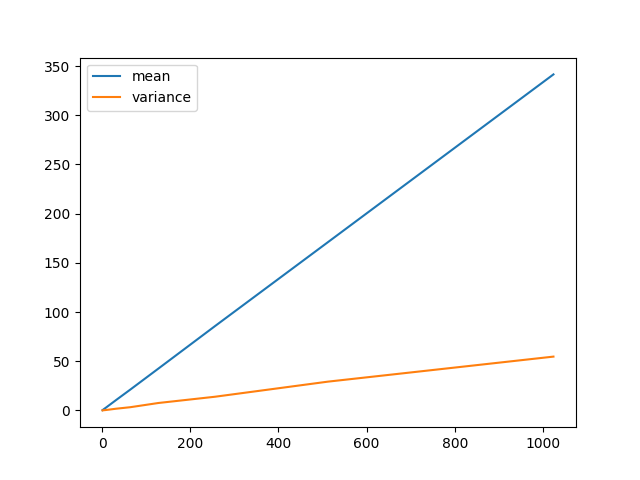
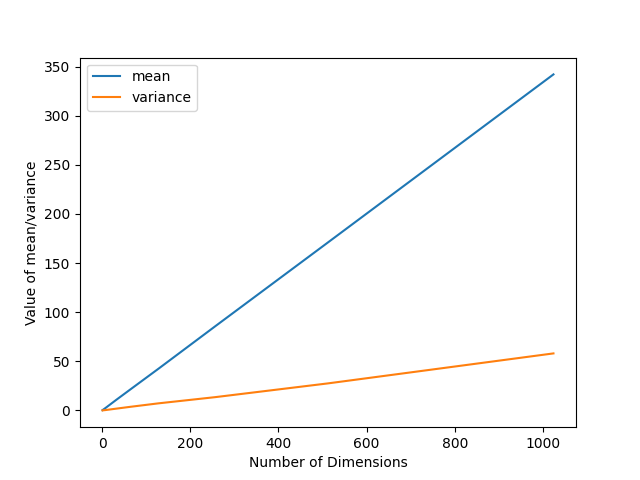
graphs ex5

diff --git a/Assignment1/Exercise2/sample_plot.py b/Assignment1/Exercise2/sample_plot.py
@@ -22,11 +22,11 @@ def sample_hundred_points(dimensions=1):
         hundred_points.append(d_dim_point)
     return hundred_points
 
-def euclidian_distance(x, y):
+def squared_euclidian_distance(x, y):
     tot = 0
     for dim in range(len(x)):
         tot += (x[dim] - y[dim]) ** 2
-    return sqrt(tot)
+    return tot
 
 def manhattan_distance(x, y):
     tot = 0
@@ -34,7 +34,7 @@ def manhattan_distance(x, y):
         tot += abs(x[dim] - y[dim])
     return tot 
 
-def measure_distance(hundred_points, distance_measurement=euclidian_distance):
+def measure_distance(hundred_points, distance_measurement=squared_euclidian_distance):
     data = []
     for i_x, point_x in enumerate(hundred_points):
         # do (a) squared eculdian distance, (x-y)^2
@@ -44,7 +44,7 @@ def measure_distance(hundred_points, distance_measurement=euclidian_distance):
                 data.append(tot)
     return data
 
-def plot(distance_measurement=euclidian_distance): # metric can also be manhattan
+def plot(distance_measurement=squared_euclidian_distance): # metric can also be manhattan
     dims = generate_dims()
 
     mean_per_dim, var_per_dim = [], [] # metrics for slope
@@ -57,11 +57,11 @@ def plot(distance_measurement=euclidian_distance): # metric can also be manhatta
 
         average = sum(distances_between_points) / len(distances_between_points)
         variance = np.var(distances_between_points)
+        
         all_averages.append(average)
         all_variance.append(variance)
         mean_per_dim.append(average / d)
         var_per_dim.append(variance / d)
-
         #print(f"Average is: {average}, var is: {variance} with {d} dimensions")
     
     # plot average and standard deviation on y-axis vs dimensions on x-axis
@@ -69,11 +69,15 @@ def plot(distance_measurement=euclidian_distance): # metric can also be manhatta
     plt.plot(dims, all_averages, label='mean')
     plt.plot(dims, all_variance, label='variance')
     plt.legend()
+    plt.xlabel("Number of Dimensions")
+    plt.ylabel("Value of mean/variance")
 
     plt.savefig(f"Assignment1/Exercise2/Mean & var across different dimensions using {distance_measurement.__name__}")
     
     # by analysis, there is a linear relationship between mean and dimensions, and variance and dimensions for manhattan distance
     # calculate slope below
-    print(f"For {distance_measurement.__name__}, mean slope: {np.average(mean_per_dim)}, Var slope: {np.average(var_per_dim)}")
-
+    avg_mean_slope = round(np.average(mean_per_dim), 3)
+    avg_var_slope = round(np.average(var_per_dim), 4)
+    print(f"For {distance_measurement.__name__}, mean slope: {avg_mean_slope}, Var slope: {avg_var_slope}")
+    print(f"For {distance_measurement.__name__}, E(Z)={avg_mean_slope}d, V(Z)={avg_var_slope}d")
     return

diff --git a/Assignment1/Exercise5/bagging_vs_boosting.py b/Assignment1/Exercise5/bagging_vs_boosting.py
@@ -1,15 +1,54 @@
 from sklearn.tree import DecisionTreeClassifier
 from helpers.helper import read_csv, splice_data, split_rows
+import matplotlib.pyplot as plt
+
 DATA='/home/josiah/repos/ECE457B-Fundamentals-of-Computational-Intelligence/Assignment1/Exercise4/A1Q3DecisionTrees.csv'
 DECISION_TREE_COUNT = 100
+SURVIVED = 9
 
+def make_hist(title="Validation", results=[]):
+    plt.hist(results, bins=5, color='skyblue', edgecolor='black')
+    
+    # Adding labels and title
+    plt.xlabel(f"{title} Performance")
+    plt.ylabel('Frequency')
+    plt.title(f"{title} of 100 Decision Trees")
+ 
+    # Display the plot
+    #plt.show()
+    plt.savefig(f"Assignment1/Exercise5/{title} Performance")
+    plt.close()
+    return
 
-def bagging_ensenble(data_split=[80,10,10]):
-    for tree in range(DECISION_TREE_COUNT):
-        # train tree
-        # predict with tree
-        # record results
-        return
+def bagging_ensemble(train_size=80, val_size=10, test_size=10):
+    data = read_csv(filename=DATA, trim_header=True)
+    train_count, val_count, test_count = splice_data(num_rows=len(data),train_size=train_size, val_size=val_size, test_size=test_size)
+    train_rows, val_rows, test_rows = split_rows(data, train_count, val_count, test_count)
+
+    # split train data
+    train_inputs, train_outputs = [], []
+    for person in train_rows:
+       train_inputs.append(person[:-1])
+       train_outputs.append([person[SURVIVED]])
+    
+    val_results, test_results = [], []
+    for _ in range(DECISION_TREE_COUNT):
+        clf = DecisionTreeClassifier()
+        clf = clf.fit(train_inputs, train_outputs)
+        val_correct, test_correct = 0, 0
+        for person in val_rows:
+            if clf.predict([person[:-1]]) == [person[-1]]:
+                val_correct += 1
+        for person in test_rows:
+            if clf.predict([person[:-1]]) == [person[-1]]:
+                test_correct += 1
+        val_results.append(round(val_correct / val_count, 8))
+        test_results.append(round(test_correct / test_count, 8))
+    # make histogram of accurracy of all classifiers
+    make_hist(title="Validation", results=val_results)
+    make_hist(title="Test", results=test_results)
+    # take a vote somehow
+        
 
     return # overall accurracy
 

diff --git a/Assignment1/main.py b/Assignment1/main.py
@@ -1,11 +1,12 @@
-from Exercise2.sample_plot import plot, manhattan_distance, euclidian_distance
+from Exercise2.sample_plot import plot, manhattan_distance, squared_euclidian_distance
 from Exercise3.k_nearest_neighbors import exercise_3_question_2a_b_c, exercise_3_question_3
 from Exercise4.decision_trees import gender_impurity, compare_age_impurity, gender_age_impurity, age_gender_impurity, gini_index_gender, gini_index_age, sklearn_decision_tree, entropy_gender, entropy_age, data_split_decision_trees, varied_max_depth
+from Exercise5.bagging_vs_boosting import bagging_ensemble
 from operator import le, ge
 
 
-plot(distance_measurement=euclidian_distance) # exercise 2
-plot(distance_measurement=manhattan_distance) # exercise 2
+#plot(distance_measurement=squared_euclidian_distance) # exercise 2, question 2(a)
+#plot(distance_measurement=manhattan_distance) # exercise 2, question 2(b)
 
 #exercise_3_question_2a_b_c() 
 #exercise_3_question_3()
@@ -25,5 +26,5 @@ plot(distance_measurement=manhattan_distance) # exercise 2
 #data_split_decision_trees() # exercise 4, question 3
 #varied_max_depth()# exercise 4, question 3
 
-
+bagging_ensemble() # exercise 5, question 1
 
